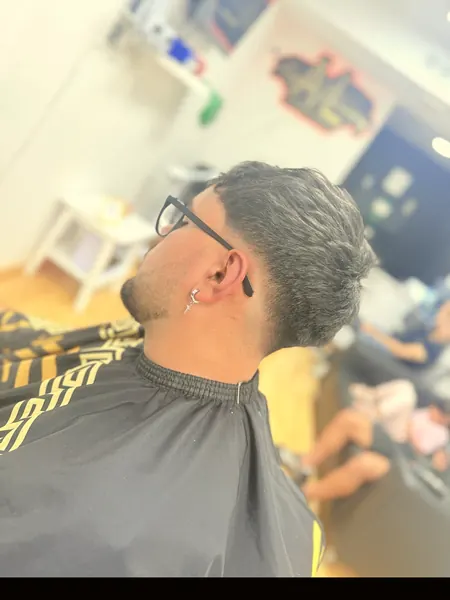
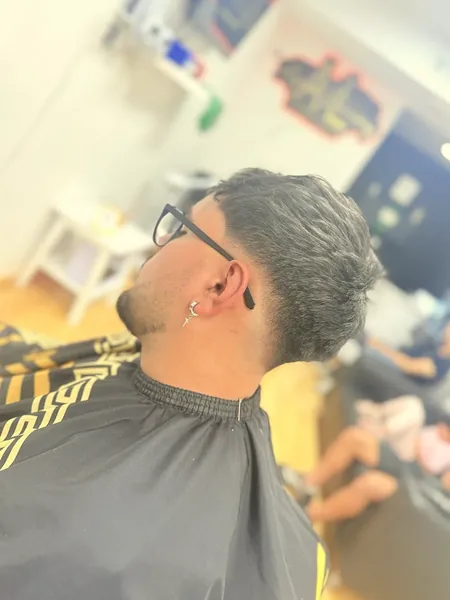
Foto 5 del carrusel sin banda negra y sin línea bajo el vídeo de portada
Claude-Session: https://claude.ai/code/session_01GjLTrkUaSUxt4BBQVoVjmx

diff --git a/assets/css/site.css b/assets/css/site.css
@@ -315,7 +315,7 @@ svg { fill: currentColor; }
   position: absolute;
   inset: 0;
   overflow: hidden;
-  background: #000 url("../video/hero.jpg") center / cover no-repeat;
+  background: var(--bg);
   transform-origin: 50% 0;
 }
 .hero__video {
@@ -327,8 +327,10 @@ svg { fill: currentColor; }
 }
 .hero__shade {
   position: absolute;
-  inset: 0;
+  /* se pasa 2 px por abajo para que el borde del vídeo nunca asome */
+  inset: 0 0 -2px 0;
   background:
+    linear-gradient(180deg, transparent 0%, transparent 94%, var(--bg) 99%),
     radial-gradient(70% 60% at 50% 45%, rgba(11, 10, 8, 0.2), rgba(11, 10, 8, 0.7) 100%),
     linear-gradient(180deg, rgba(11, 10, 8, 0.55) 0%, rgba(11, 10, 8, 0.1) 30%, rgba(11, 10, 8, 0.2) 65%, var(--bg) 100%);
 }
